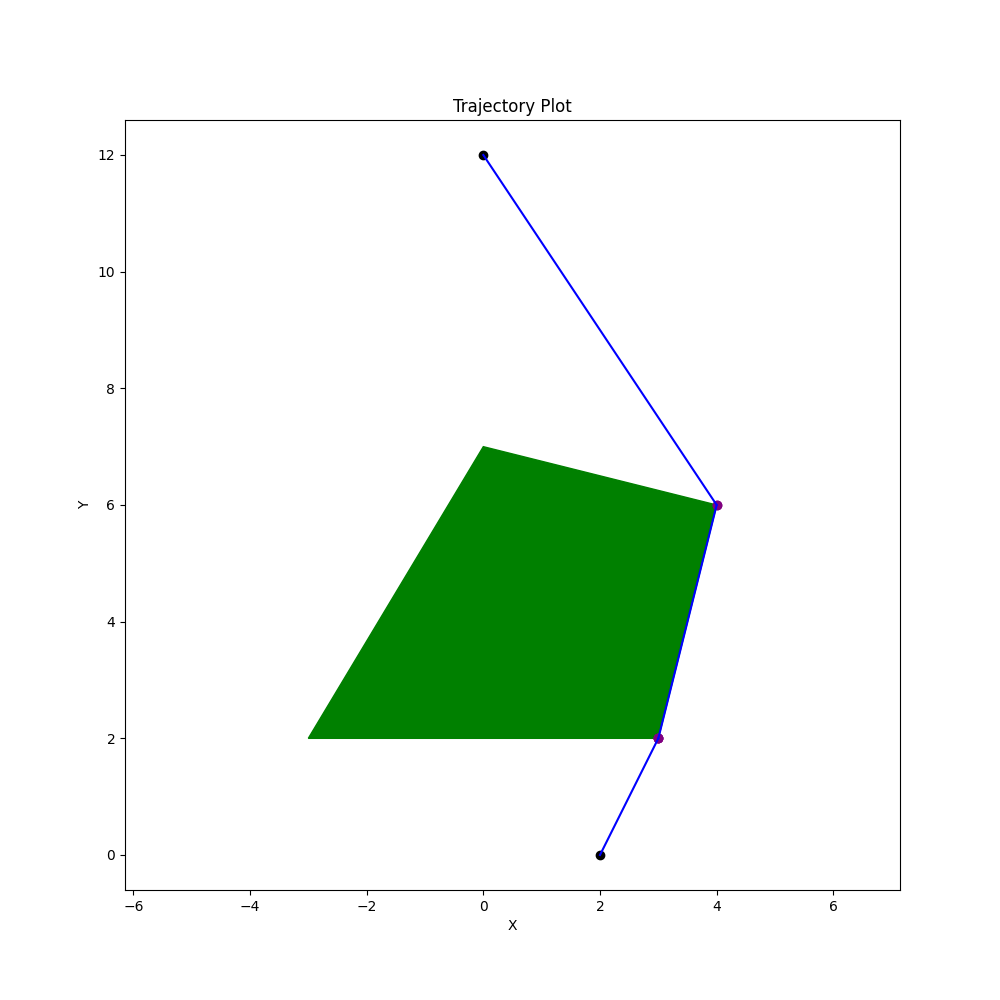
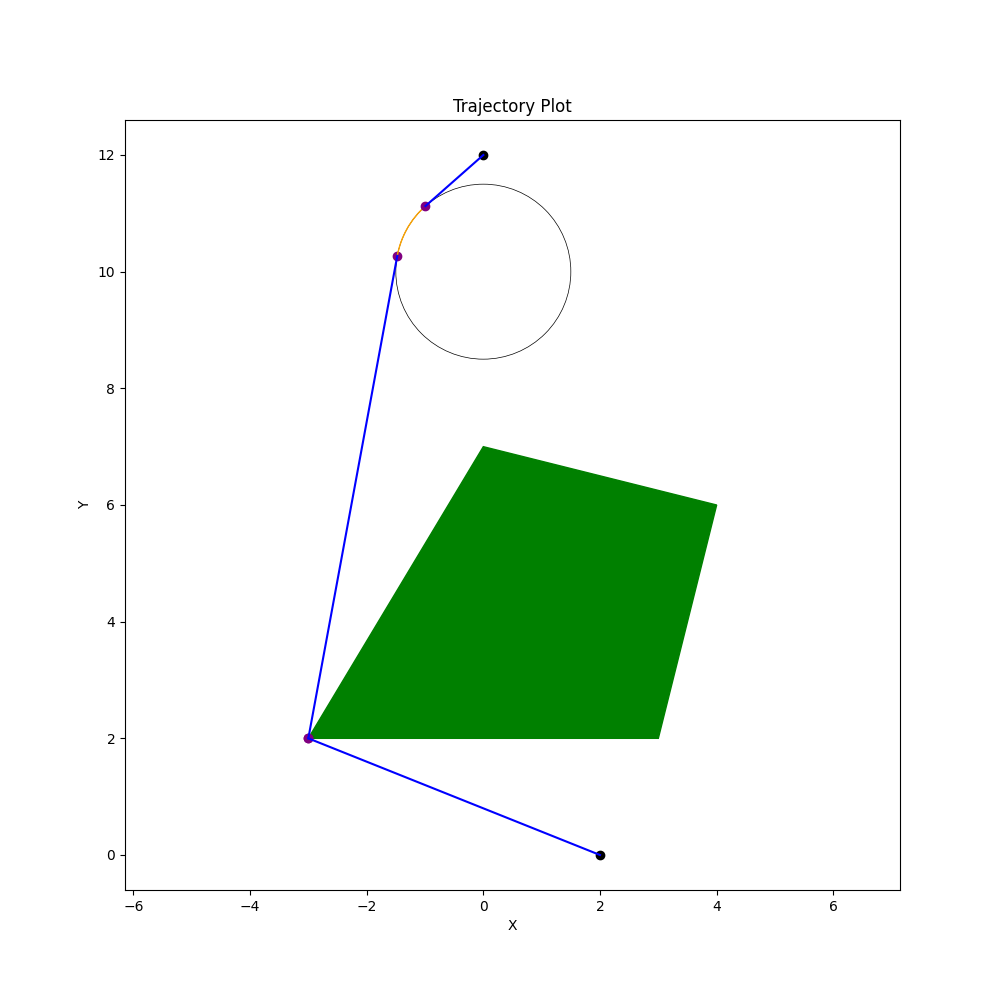
full working algorithm

diff --git a/geometry/geometric_functions.py b/geometry/geometric_functions.py
@@ -3,10 +3,7 @@ from typing import Union
 
 from geometry import classes
 from geometry.classes import *
-
-INF = 10 ** 8
-EPS = 10 ** -6
-ROUND_NUM = 6
+from constants import *
 
 
 # Расчёт количества точек пересечения с окружностью
@@ -41,7 +38,7 @@ def polygon_intersection(a: classes.Point2D, b: classes.Point2D, polygon: classe
     pr = INF
     for i in range(len(vertexes)):
         if abs(line.substitute(vertexes[i])) <= EPS:
-            if (pr + 1) % INF == 0 or i - pr == 1 or i - pr == len(vertexes) - 1:
+            if (pr + 1) % INF == 0 or i - pr == 1 or (pr == INF and i == 0) or i - pr == len(vertexes) - 1:
                 pr = i
             else:
                 return True
@@ -88,7 +85,8 @@ def polygon_touch_points(point: classes.Point2D, polygon: classes.Polygon):
 
     tp1 = vertexes[0]
     tp2 = Point2D()
-    cos_alpha_1 = cos_alpha_2 = 1.0
+    cos_alpha_1 = 1.0
+    cos_alpha_2 = 1.0
     center_dist = calc_dist(center, point)
     line = classes.LineFunction(center, point)
 
@@ -136,7 +134,9 @@ def tangents_between_circles(circle1: classes.Circle, circle2: classes.Circle):
     r1 = circle2.radius
 
     def find_tangent(r_0, r_1):
-        a = b = c = None
+        a = None
+        b = None
+        c = None
         if abs(x0 - x1) > EPS:
             root = (x1 - x0) ** 2 * ((x1 - x0) ** 2 + (y1 - y0) ** 2 - (r_1 - r_0) ** 2)
             if abs(root) < EPS:
@@ -170,9 +170,9 @@ def tangent_points(tangent: LineFunction, object1: Union[Circle,Polygon], object
         return tangent_points_polygons(tangent, object1, object2)
     else:
         if isinstance(object1, Polygon):
-            return tangent_points_circles(tangent, object1, object2)
+            return tangent_points_polygon_circle(tangent, object1, object2)
         else:
-            return tangent_points_polygons(tangent, object2, object1)
+            return tangent_points_polygon_circle(tangent, object2, object1)
 
 def tangent_points_circles(tangent: LineFunction, circle1: classes.Circle, circle2: classes.Circle):
     a, b, c = tangent.a, tangent.b, tangent.c
@@ -196,60 +196,47 @@ def tangent_points_circles(tangent: LineFunction, circle1: classes.Circle, circl
 
 def dist_between_poly_points(a: classes.Point2D, b: classes.Point2D, polygon: classes.Polygon):
     vertexes = polygon.vertexes
-    for i in range(len(vertexes)):
-        if abs(a.x - vertexes[i].x) < EPS and abs(a.y - vertexes[i].y) < EPS:
+    v1 = None
+    v2 = None
+    for i, v in enumerate(vertexes):
+        if abs(a.x - v.x) < EPS and abs(a.y - v.y) < EPS:
             v1 = i
-    for i in range(len(vertexes)):
-        if abs(b.x - vertexes[i].x) < EPS and abs(b.y - vertexes[i].y) < EPS:
+    for i, v in enumerate(vertexes):
+        if abs(b.x - v.x) < EPS and abs(b.y - v.y) < EPS:
             v2 = i
     if v2 < v1:
         v1, v2 = v2, v1
     path = GPath()
-    points1 = [vertexes[v1]]
-    points2 = [vertexes[v1]]
-    dist1 = dist2 = 0
-    t1 = v1
-    t2 = v2
-    while t1 != t2:
-        t = t1
-        t1 += 1
-        if t1 == len(vertexes):
-            t1 = 0
-        dist1 += calc_dist(vertexes[t], vertexes[t1])
-        points1.append(vertexes[t1])
-    t1 = v1
-    t2 = v2
-    while t1 != t2:
-        t = t1
-        t1-=1
-        if t1 == -1:
-            t1 = len(vertexes) - 1
-        dist2 += calc_dist(vertexes[t], vertexes[t1])
-        points2.append(vertexes[t1])
-    points1.append(vertexes[v2])
-    points2.append(vertexes[v2])
+    points1 = vertexes[v1: v2 + 1]
+    points2 = vertexes[v2:] + vertexes[:v1 + 1]
+    def total_dist(points:list):
+        dist = 0
+        for i in range(len(points) - 1):
+            dist += calc_dist(points[i], points[i+1])
+        return dist
+    dist1 = total_dist(points1)
+    dist2 = total_dist(points2)
 
+    def points_to_path(points:list):
+        path = GPath()
+        for i in range(len(points)-1):
+            tpath = GPath([Line(points[i], points[i+1])])
+            path+= tpath
+        return path
     if dist1 < dist2:
-        for i in range(len(points1)-1):
-            tpath = GPath([Line(points1[i], points1[i+1])])
-            path+= tpath
-        dist = dist1
+        return dist1, points_to_path(points1)
     else:
-        for i in range(len(points2)-1):
-            tpath = GPath([Line(points2[i], points2[i+1])])
-            path+= tpath
-        dist = dist2
-    return dist, path
+        return dist2, points_to_path(points2)
 
-def tangents_between_polygon(polygon: Polygon, object:Union[Polygon, Circle]):
+def tangents_between_polygon(polygon: Polygon, obj:Union[Polygon, Circle]):
     tangents = []
     vertexes = polygon.vertexes
     for vertex in vertexes:
-        tgs = touch_points_search(vertex, object)
+        tgs = touch_points_search(vertex, obj)
         for tg in tgs:
             if vertex != tg:
                 line = LineFunction(vertex, tg)
-                if not intersection(vertex,tg, polygon) and not intersection(vertex,tg,object):
+                if not intersection(vertex,tg, polygon) and not intersection(vertex,tg,obj):
                     f = line.a is not None
                     f = line not in tangents
                     if f:

diff --git a/geometry/matrix_reading.py b/geometry/matrix_reading.py
@@ -1,10 +1,8 @@
 import json
 from pathlib import Path
 
-from geometry.classes import *
 from geometry.geometric_functions import *
-
-INF = 10 ** 8
+from constants import *
 
 
 class Task:
@@ -160,8 +158,6 @@ class Task:
                     length, path = self.calculate_path(start, finish, matrix_length, matrix_path)
                     matrix_length[start, finish] = matrix_length[finish, start] = length
                     matrix_path[start, finish] = matrix_path[finish, start] = path
-                    print("aboba")
-                    print(matrix_length[start, finish])
         matrix_length = np.round(matrix_length, 6)
         return matrix_length, matrix_path
 
@@ -182,7 +178,7 @@ class Task:
         pfinish = self.targets[finish]
         new_distance = matrix_length[start, finish]
         path = matrix_path[start, finish]
-        
+
         inter_objects = []
 
         for obj in self.circles + self.polygons:
@@ -198,14 +194,14 @@ class Task:
                 for p in start_touch_points + finish_touch_points:
                     f = True
                     for ob in self.circles + self.polygons:
-                        if ob != obj:
+                        if isinstance(ob, Circle) != isinstance(obj, Circle) or isinstance(ob, Polygon) != isinstance(
+                                obj, Polygon) or ob != obj:
                             if intersection(pstart if p in start_touch_points else pfinish, p, ob):
                                 f = False
                                 if ob not in inter_objects:
                                     inter_objects.append(ob)
                     if f:
                         all_points.append([p, obj, pstart if p in start_touch_points else pfinish])
-            print(len(inter_objects))
             # ищем точки общих касательных к окружностям
             if len(inter_objects) > 1:
                 for fc in range(len(inter_objects)):
@@ -219,9 +215,13 @@ class Task:
                                     if intersection(p1, p2, c):
                                         f = False
                             if f:
-                                all_points.append([p1, inter_objects[fc], p2])
-                                all_points.append([p2, inter_objects[sc], p1])
-            print(len(all_points))
+                                if inter_objects[fc].point_on(p1):
+                                    all_points.append([p1, inter_objects[fc], p2])
+                                    all_points.append([p2, inter_objects[sc], p1])
+                                else:
+                                    all_points.append([p1, inter_objects[sc], p2])
+                                    all_points.append([p2, inter_objects[fc], p1])
+
             all_points.append([pfinish, None, None])
             points_length = np.full((len(all_points), len(all_points)), fill_value=INF, dtype=float)
             points_path = np.empty((len(all_points), len(all_points)), dtype=GPath)
@@ -266,7 +266,6 @@ class Task:
                                 inter_objects]):
                             points_length[i, j] = points_length[j, i] = calc_dist(all_points[i][0], all_points[j][0])
                             points_path[i, j] = points_path[j, i] = GPath([Line(all_points[i][0], all_points[j][0])])
-            print(points_length)
             # Представляем наши точки в виде графа и ищем оптимальный путь между начальной и конечной
             new_distance, new_path = self.dijkstra(points_length)
             path = GPath()
@@ -329,8 +328,6 @@ class Task:
                     if distances[v] + matrix[v, i] < distances[i]:
                         distances[i] = distances[v] + matrix[v, i]
                         predecessors[i] = v
-        print(distances[num_vertices-1])
-        print(predecessors)
         return distances[num_vertices - 1], self.reconstruct_path(predecessors, 0, num_vertices - 1)
 
     def reconstruct_path(self, predecessors, start, end):

diff --git a/geometry/classes.py b/geometry/classes.py
@@ -5,8 +5,7 @@ import matplotlib.pyplot as plt
 import matplotlib.patches
 import matplotlib.lines
 import numpy as np
-
-INF = 10 ** 8
+from constants import *
 
 
 class Point2D:
@@ -105,9 +104,13 @@ class Circle:
     def __str__(self):
         return f'Circle {self.center.x} {self.center.y} {self.radius}'
 
-    def __cmp__(self, other):
+    def __eq__(self, other):
+        if not isinstance(other, Circle):
+            return False
         return self.center.x == other.center.x and self.center.y == other.center.y and self.radius == other.radius
 
+    def point_on(self, point: Point2D):
+        return abs(self.center.calc_dist(point) - self.radius) < EPS
 
 class Arc:
     """
@@ -203,6 +206,18 @@ class Polygon:
         points_coords = [(point.x,point.y) for point in self.vertexes]
         polygon = matplotlib.patches.Polygon(points_coords, fill=True, color= "green", closed= True)
         ax.add_patch(polygon)
+
+    def point_on(self, point:Point2D):
+        f = False
+        for v in self.vertexes:
+            if abs(v.x - point.x) < EPS and abs(v.y - point.y) < EPS:
+                f = True
+                break
+        return f
+    def __eq__(self, other):
+        if not isinstance(other, Polygon):
+            return False
+        return self.vertexes == other.vertexes
 
 
 class LineFunction:

diff --git a/geometry/tests.py b/geometry/tests.py
@@ -1,8 +1,7 @@
 import pytest
 import numpy as np
 from geometry.matrix_reading import Task
-
-INF = 10 ** 8
+from constants import *
 mock_data_1 = {
     "points": [
         {"x": 0.5, "y": 0},
@@ -221,7 +220,7 @@ mock_data_11 = {
         ]
     ]
 }
-expected_matrix_11 = np.array([[INF, 13.570276], [13.570276, INF]])
+expected_matrix_11 = np.array([[INF, 16.117994], [ 16.117994, INF]])
 
 
 @pytest.mark.parametrize('mock_data, expected_matrix',
@@ -229,8 +228,9 @@ expected_matrix_11 = np.array([[INF, 13.570276], [13.570276, INF]])
                           (mock_two_points_data, expected_matrix_3), (mock_data_4, expected_matrix_4),
                           (mock_data_5, expected_matrix_5), (mock_data_6, expected_matrix_6),
                           (mock_data_7, expected_matrix_7), (mock_data_8, expected_matrix_8),
-                          (mock_data_9, expected_matrix_9), (mock_data_10, expected_matrix_10)])
+                          (mock_data_9, expected_matrix_9), (mock_data_10, expected_matrix_10), (mock_data_11, expected_matrix_11)])
 def test_matrix_reading(mock_data, expected_matrix):
     t = Task(mock_data)
     distance_matrix = t.length_matrix
     np.testing.assert_array_almost_equal(distance_matrix, expected_matrix)
+

diff --git a/geometry/constants.py b/geometry/constants.py
@@ -1,0 +1,3 @@
+INF = 10 ** 8
+EPS = 10 ** -6
+ROUND_NUM = 6
